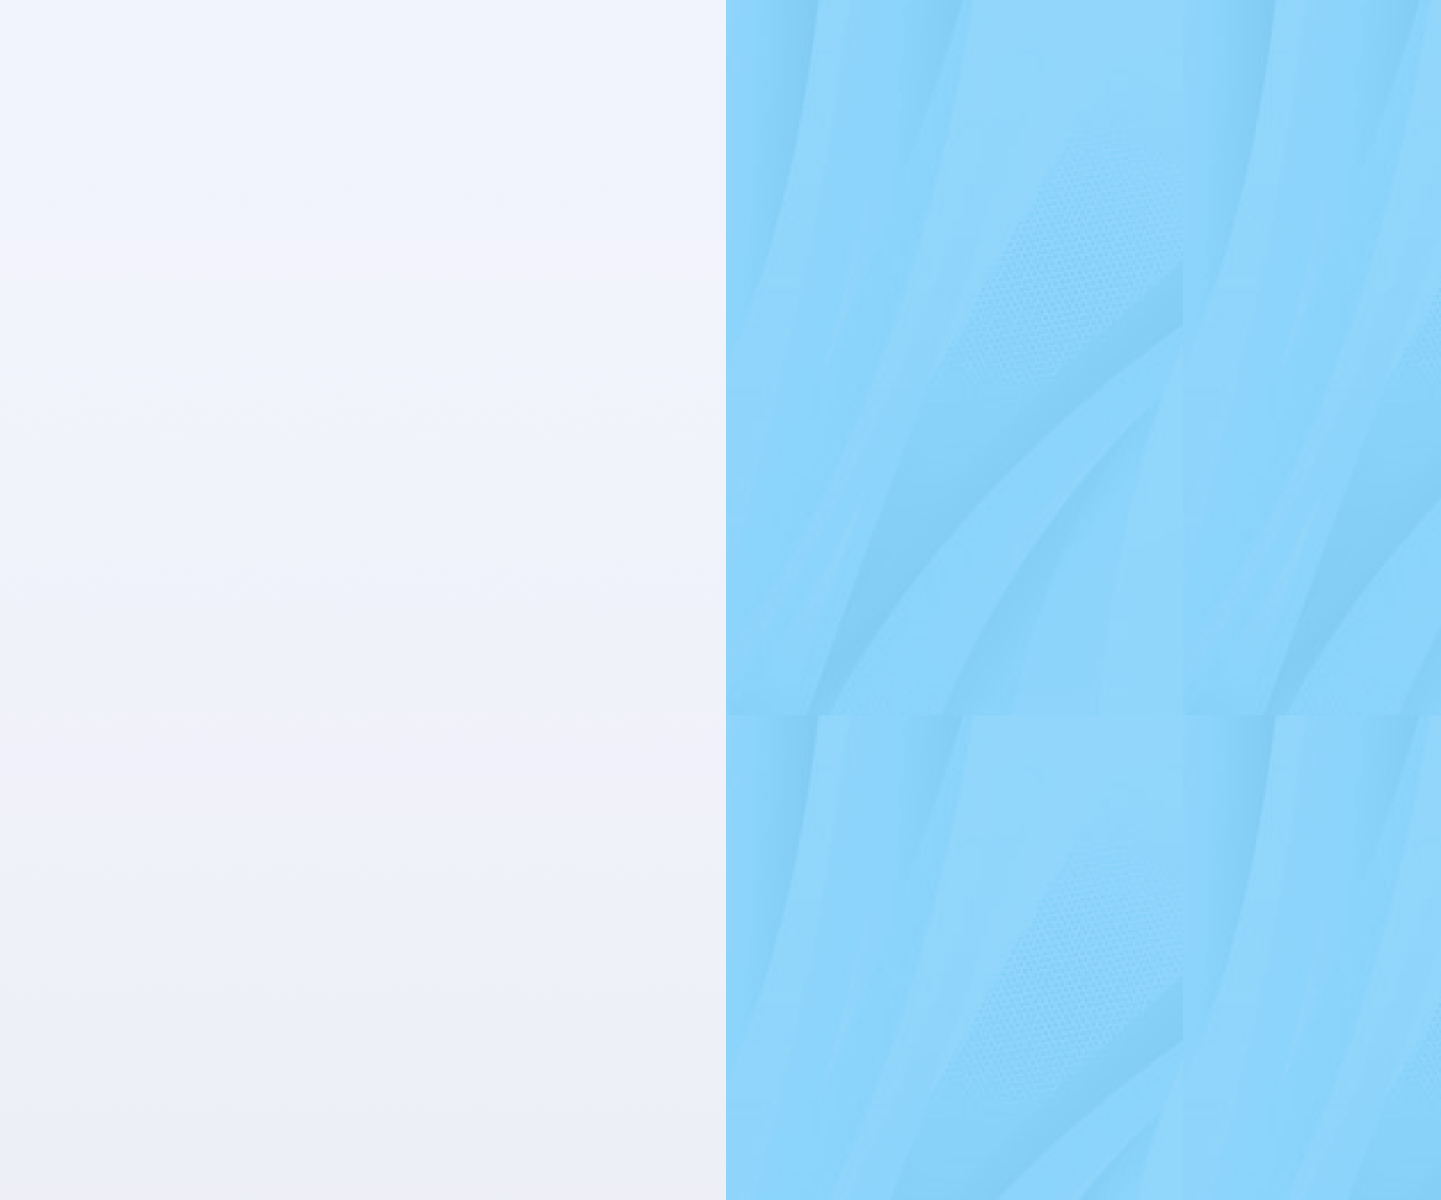
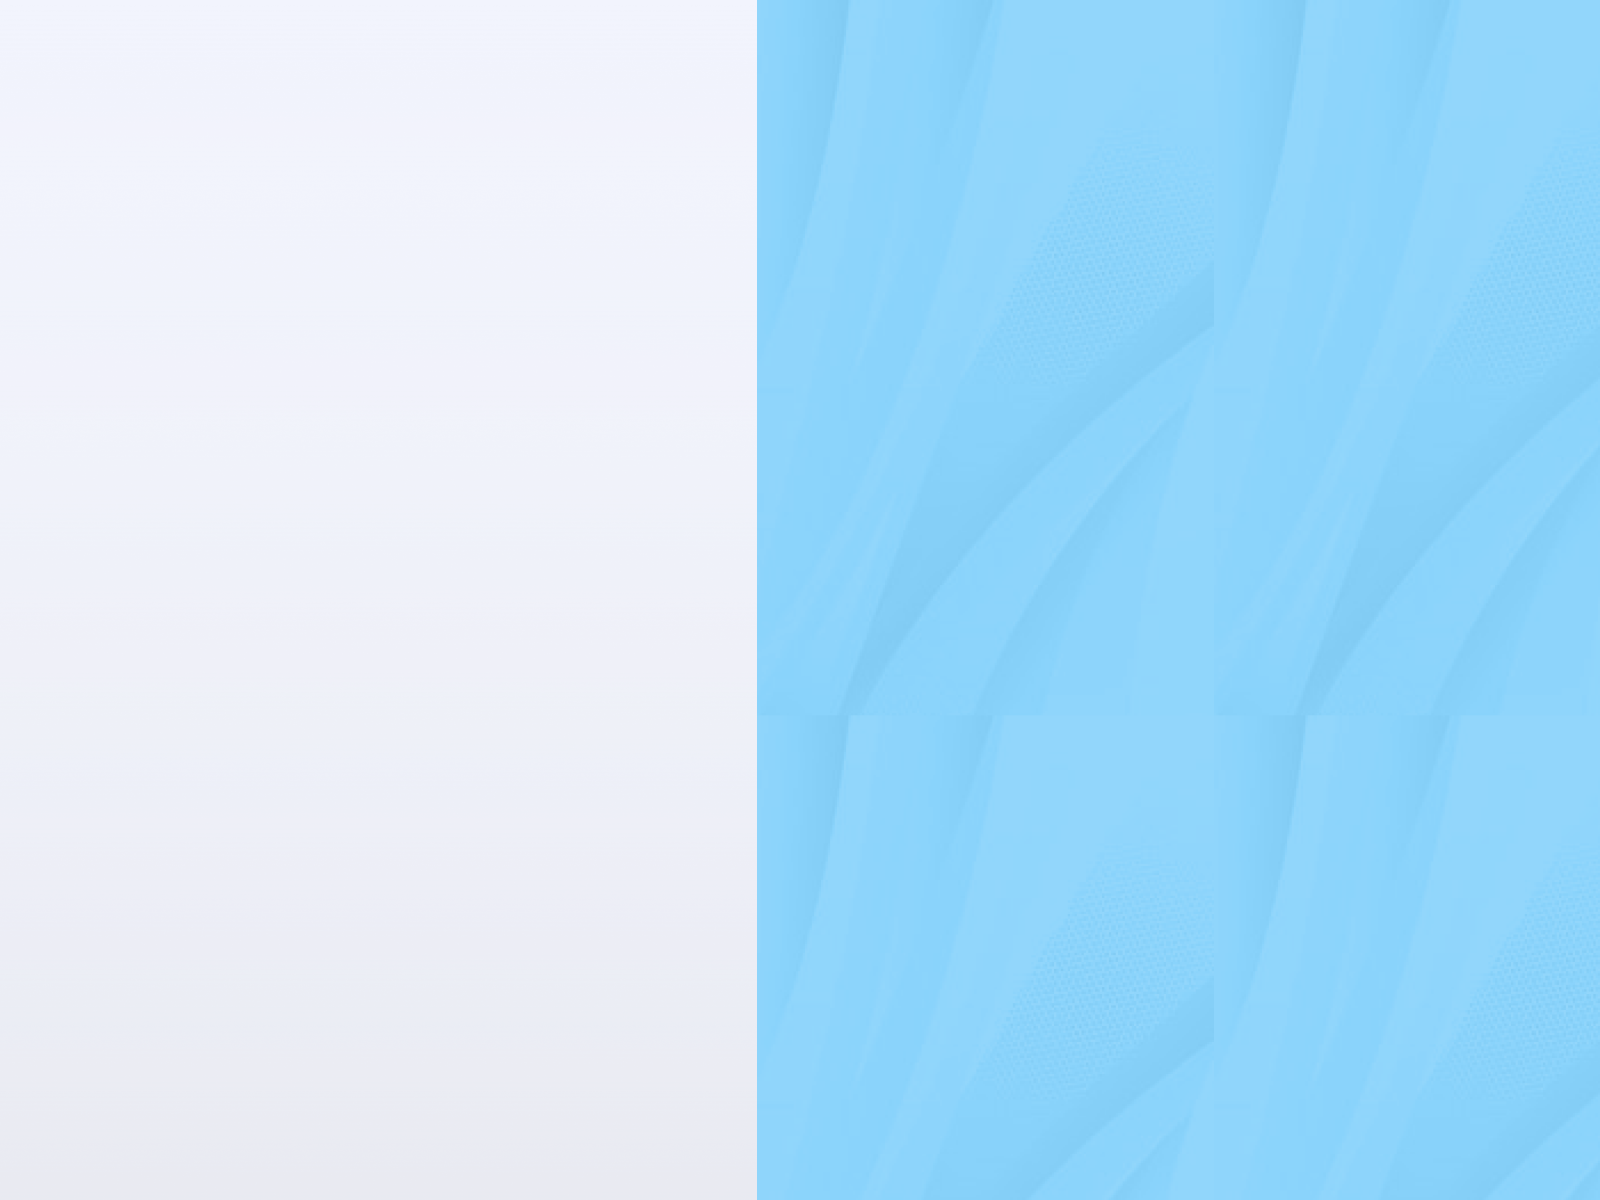
novas melhorias

Changed region(s): [[0.4684, 0.0, 0.5309, 1.0]]

diff --git a/home/index.html b/home/index.html
@@ -5,11 +5,11 @@
     <meta http-equiv="X-UA-Compatible" content="IE=edge">
     <meta name="viewport" content="width=device-width, initial-scale=1.0">
     <title>UserBank</title>
-    <link rel="stylesheet" href="style.css">
+    <link rel="stylesheet" href="../style/style.css">
     <link rel="preconnect" href="https://fonts.googleapis.com">
     <link rel="preconnect" href="https://fonts.gstatic.com" crossorigin>
     <link href="https://fonts.googleapis.com/css2?family=Inter:wght@100;200;400;500;700&display=swap" rel="stylesheet">
-    <link rel="shortcut icon" href="imagens/favicon.ico" type="image/x-icon">
+    <link rel="shortcut icon" href="../imagens/favicon.ico" type="image/x-icon">
 </head>
 <body>
     <main>
@@ -17,11 +17,11 @@
             <header>
                 <div class="items-header">
                     <section class="menu-flex">
-                        <a href="index.html"><img src="imagens/logo-userbank2.png" alt="logo" id="logo"></a>
-                        <h2>UserBank <img src="imagens/Vector.png" alt="seta-baixo"> </h2>
-                        <h2>Conta Digital <img src="imagens/Vector.png" alt="seta-baixo"> </h2>
+                        <a href="../home/index.html"><img src="../imagens/logo-userbank2.png" alt="logo" id="logo"></a>
+                        <h2>UserBank <img src="../imagens/Vector.png" alt="seta-baixo"> </h2>
+                        <h2>Conta Digital <img src="../imagens/Vector.png" alt="seta-baixo"> </h2>
                     </section>
-                    <section id="header-buttom"><a href="">Login<img src="imagens/logo-buttom.png" alt="logo-usuário"></a></section>
+                    <section id="header-buttom"><a href="">Login<img src="../imagens/logo-buttom.png" alt="logo-usuário"></a></section>
                 </div>
             </header>
             <article class="principal">
@@ -30,24 +30,24 @@
                     <p>Abrir uma conta digital nunca foi tão simples!</p>
                     <aside>
                         <div class="nav-principal">
-                            <a href="criar-conta.html" id="button">Abrir uma conta <img src="imagens/seta.png" alt="imagem-seta"></a>
+                            <a href="../criar-conta/criar-conta.html" id="button">Abrir uma conta <img src="../imagens/seta.png" alt="imagem-seta"></a>
                             <ul>
-                                <li><a href="https://www.apple.com/br/app-store/" target="_blank"><img src="imagens/logo-apple.png" alt="logo-apple"></a></li>
-                                <li><a href="https://play.google.com/store/games?utm_source=latam_Med&utm_medium=hasem&utm_content=Jul1520&utm_campaign=Evergreen&pcampaignid=MKT-FDR-latam-br-1002290-Med-hasem-py-Evergreen-Jul1520-Text_Search_BKWS-41905086&gclid=Cj0KCQjwxveXBhDDARIsAI0Q0x3iPCXiD33OQpVtV9m7NaFHiMIhlcOXJaumCvkGXsngM12v56jOOU4aAuBSEALw_wcB&gclsrc=aw.ds" target="_blank"><img src="imagens/logo-play-store.png" alt="logo-play-store"></a></li>
+                                <li><a href="https://www.apple.com/br/app-store/" target="_blank"><img src="../imagens/logo-apple.png" alt="logo-apple"></a></li>
+                                <li><a href="https://play.google.com/store/games?utm_source=latam_Med&utm_medium=hasem&utm_content=Jul1520&utm_campaign=Evergreen&pcampaignid=MKT-FDR-latam-br-1002290-Med-hasem-py-Evergreen-Jul1520-Text_Search_BKWS-41905086&gclid=Cj0KCQjwxveXBhDDARIsAI0Q0x3iPCXiD33OQpVtV9m7NaFHiMIhlcOXJaumCvkGXsngM12v56jOOU4aAuBSEALw_wcB&gclsrc=aw.ds" target="_blank"><img src="../imagens/logo-play-store.png" alt="logo-play-store"></a></li>
                             </ul>
                         </div>
                     </aside>
                 </div>
                     <picture>
                         <source media="(max-width:1400px)" srcset="imagens/cartão-flutuando-p.png" id="cartao-p">
-                        <img src="imagens/cartão-flutuando2.png" alt="cartão-crédito" id="cartao">
+                        <img src="../imagens/cartão-flutuando2.png" alt="cartão-crédito" id="cartao">
                     </picture>
             </article>
         </section>
         <section class="segunda-section">
             <picture id="celular">
-                <source media="(max-width: 1100px)" srcset="imagens/Celular-p.png" id="celular-p">
-                <img src="imagens/Celular.png" alt="imagem-celular" id="celular-g">
+                <source media="(max-width: 1100px)" srcset="../imagens/Celular-p.png" id="celular-p">
+                <img src="../imagens/Celular.png" alt="imagem-celular" id="celular-g">
             </picture>
             <section class="grupo-conteudo">
                 <div class="conteudo-segunda">
@@ -58,14 +58,14 @@
                 <article>
                     <ul class="lista">
                         <li>
-                            <img src="imagens/image-sifrao.png" alt="imagem-sifrao">
+                            <img src="../imagens/image-sifrao.png" alt="imagem-sifrao">
                             <div>
                                 <h2>Seu dinheiro rendendo mais</h2>
                                 <p>Rende mais que a poupança e você resgata quando quiser.</p>
                             </div>
                         </li>
                         <li>
-                            <img src="imagens/image-celular.png" alt="imagem-celular">
+                            <img src="../imagens/image-celular.png" alt="imagem-celular">
                             <div>
                                 <h2>Conta digital 100% grátis</h2>
                                 <p>Transferências, boletos de depósito e outros serviços gratuitos.
@@ -73,7 +73,7 @@
                             </div>
                         </li>
                         <li>
-                            <img src="imagens/image-feliz.png" alt="figurinha-feliz">
+                            <img src="../imagens/image-feliz.png" alt="figurinha-feliz">
                             <div>
                                 <h2>Cartão sem anuidade</h2>
                                 <p>Conta digital com cartão de crédito sem anuidade e sem complicação.</p>
@@ -92,32 +92,32 @@
                     </div>
                 </article>
                 <ul class="cards-vantagens">
-                    <li> <img src="imagens/cartao.png" alt="imagem-cartão">
+                    <li> <img src="../imagens/cartao.png" alt="imagem-cartão">
                     <h2>Cartão UserBank</h2>
                     <p>Zero anuidade e um programa de pontos excelente.</p>
                     <a href="">VEJA AS OPÇÕES</a>
                  </li>
-                    <li> <img src="imagens/carrinho.png" alt="imagem-carrinho">
+                    <li> <img src="../imagens/carrinho.png" alt="imagem-carrinho">
                     <h2>Investimentos</h2>
                     <p>Aplique em fundos de investimento, ações, fundos imobiliários, BDRs e entre outros produtos.</p>
                     <a href="">VEJA MAIS</a>
                  </li>
-                    <li> <img src="imagens/escudo.png" alt="imagem-escudo">
+                    <li> <img src="../imagens/escudo.png" alt="imagem-escudo">
                     <h2>Segurança</h2>
                     <p>Utilizamos criptografia de ultima geração.</p>
                     <a href="">VEJA MAIS</a>
                  </li>
-                    <li> <img src="imagens/relogio.png" alt="imagem-relógio">
+                    <li> <img src="../imagens/relogio.png" alt="imagem-relógio">
                     <h2>Atendimento 24h</h2>
                     <p>Temos uma área especializada em resolver seus problemas.</p>
                     <a href="">VEJA AS OPÇÕES</a>
                  </li>
-                    <li> <img src="imagens/porcentagem.png" alt="imagem-procentagem">
+                    <li> <img src="../imagens/porcentagem.png" alt="imagem-procentagem">
                     <h2>Sem taxas</h2>
                     <p>Todos nossos serviços são zero taxa.</p>
                     <a href="">VEJA COMO FUNCIONA</a>
                  </li>
-                    <li> <img src="imagens/presente.png" alt="imagem-presente">
+                    <li> <img src="../imagens/presente.png" alt="imagem-presente">
                     <h2>UserPoints</h2>
                     <p>Nosso programa de pontos, 1 real gasto, 1 ponto.</p>
                     <a href="">VEJA COMO FUNCIONA</a>
@@ -132,21 +132,21 @@
             <main class="conteudo-ajuda">
                 <ul class="lista">
                     <li>
-                        <img src="imagens/image-celular.png" alt="imagem-celular">
+                        <img src="../imagens/image-celular.png" alt="imagem-celular">
                         <div id="perguntas"> 
                             <h2>Qual a rentabilidade da Conta?</h2>
                             <p>Rende 100% do DI, e pode resgatar quando quiser.</p>
                         </div>
                     </li>
                     <li>
-                        <img src="imagens/image-celular.png" alt="imagem-celular">
+                        <img src="../imagens/image-celular.png" alt="imagem-celular">
                         <div id="perguntas">
                             <h2>Consigo abrir conta para menores de  18 anos?</h2>
                             <p>Sim, temos o Userkids, uma conta digital pra menores de 18 anos, tendo acesso até a investimento financeiros.</p>
                         </div>
                     </li>
                     <li>
-                        <img src="imagens/image-celular.png" alt="imagem-celular">
+                        <img src="../imagens/image-celular.png" alt="imagem-celular">
                         <div id="perguntas">
                             <h2>Vocês tem opção de conta PJ?</h2>
                             <p>Sim, temos a EmpUser, conta digital focada em pessoas juridicas que visa o crescimento da sua empresa, tendo como um dos principais produtos o crédito para capital de giro.</p>

diff --git a/criar-conta/criar-conta.html b/criar-conta/criar-conta.html
@@ -5,29 +5,30 @@
     <meta http-equiv="X-UA-Compatible" content="IE=edge">
     <meta name="viewport" content="width=device-width, initial-scale=1.0">
     <title>Crie sua Conta</title>
-    <link rel="stylesheet" href="style.css">
-    <link rel="stylesheet" href="style-crie-conta.css">
+    <link rel="stylesheet" href="../style/style.css">
+    <link rel="stylesheet" href="../style/style-crie-conta.css">
+    <script src="index.js"></script>
 </head>
 <body>
     <main>
         <header>
             <div class="items-header">
                 <section class="menu-flex">
-                    <a href="index.html"><img src="imagens/logo-userbank2.png" alt="logo" id="logo"></a>
-                    <h2>UserBank <img src="imagens/Vector.png" alt="seta-baixo"> </h2>
-                    <h2>Conta Digital <img src="imagens/Vector.png" alt="seta-baixo"> </h2>
+                    <a href="index.html"><img src="../imagens/logo-userbank2.png" alt="logo" id="logo"></a>
+                    <h2>UserBank <img src="../imagens/Vector.png" alt="seta-baixo"> </h2>
+                    <h2>Conta Digital <img src="../imagens/Vector.png" alt="seta-baixo"> </h2>
                 </section>
-                <section id="header-buttom"><a href="">Login<img src="imagens/logo-buttom.png" alt="logo-usuário"></a></section>
+                <section id="header-buttom"><a href="">Login<img src="../imagens/logo-buttom.png" alt="logo-usuário"></a></section>
             </div>
         </header>
         <section class="criar-conta">
             <article class="introducao">
                 <div class="conteudo-introducao">
-                    <a href="index.html" id="seta-voltar"><img src="imagens/seta-voltar.png" alt="imagem-seta-voltar"></a>
+                    <a href="../home/index.html" id="seta-voltar"><img src="../imagens/seta-voltar.png" alt="imagem-seta-voltar"></a>
                     <h1> Abra sua conta UserBank</h1>
                     <picture class="foto-app">
-                        <source media="(max-width:570px)" srcset="imagens/app-userbank-p.png">
-                        <img src="imagens/app-userbank.png" alt="imagem-app-userbank">
+                        <source media="(max-width:570px)" srcset="../imagens/app-userbank-p.png">
+                        <img src="../imagens/app-userbank.png" alt="imagem-app-userbank">
                     </picture>
                 </div>
             </article>
@@ -42,7 +43,7 @@
                     <p>E-mail</p> <input type="email" name="email" placeholder="joaodasilva@exemplo.com">
                     <p>Cadastre sua Senha</p> <input type="password" name="password" placeholder="********">
                     <p>Confirme sua Senha</p> <input type="password" name="confirmar-password" placeholder="********">
-                    <button class="botao-criar">Criar Conta <img src="imagens/seta-buttom.png" alt="seta-botao"></button>
+                    <button class="botao-criar" id="botao-criar" onclick="criarconta()">Criar Conta <img src="../imagens/seta-buttom.png" alt="seta-botao"></button>
                 </form>
             </article>
         </section>

diff --git a/criar-conta/index.js b/criar-conta/index.js
@@ -1,0 +1,12 @@
+var botaoForm = document.getElementById("botao-criar");
+var verificar;
+
+function criarconta(){
+    alert("Conta Criada com Sucesso! Te enviamos um código de verificação por email. digite no próximo campo. Código possui 8 numeros.");
+    verificar = prompt();
+    if(verificar = 1){
+        alert("Sucesso! Comece a ter a experiencia de um cliente User.");
+    }else {
+        alert("Código de verificação errado. tente novamente.");
+    }
+}

diff --git a/style/style.css b/style/style.css
@@ -115,7 +115,7 @@ header a{
 }
 
 .topo{
-    background-image: url(imagens/backgound3.png);
+    background-image: url(../imagens/backgound2.png);
     height: 100%;
 }
 
